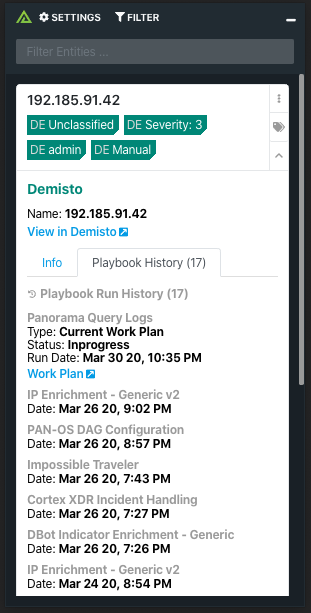
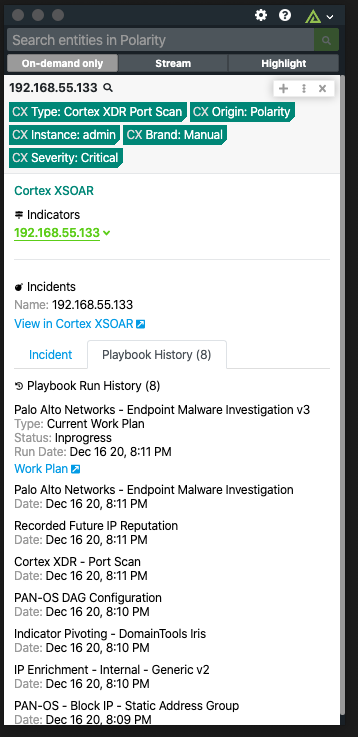
Fixed a few bugs, improved UI in terms of Indicators, and added option to disable Incident creation.

diff --git a/helpers/formatDemistoResults.js b/helpers/formatDemistoResults.js
@@ -25,7 +25,9 @@ const formatDemistoResults = (
 
         const indicatorsForThisEntity = getIndicatorsForThisEntity(indicators, entity);
 
-        const isOnDemand = entity.requestContext.requestType === 'OnDemand';
+        const allowIncidentCreation =
+          entity.requestContext.requestType === 'OnDemand' &&
+          options.allowIncidentCreation;
 
         return incidentsForThisEntity.length
           ? _formatFoundIncidentResults(
@@ -35,8 +37,14 @@ const formatDemistoResults = (
               playbooks,
               options
             )
-          : isOnDemand
-          ? _formatNewIncidentResults(entity, playbooks, options)
+          : indicatorsForThisEntity.length || allowIncidentCreation
+          ? _formatNoIncidentFoundResults(
+              entity,
+              indicatorsForThisEntity,
+              playbooks,
+              allowIncidentCreation,
+              options
+            )
           : { entity, data: null };
       }, entities),
     entityGroupsWithPlaybooks
@@ -75,7 +83,7 @@ const _formatFoundIncidentResults = (
 ) => ({
   entity,
   data: {
-    summary: createSummary(incidentsForThisEntity),
+    summary: createSummary(incidentsForThisEntity, indicatorsForThisEntity),
     details: {
       playbooks,
       incidents: getKeys(
@@ -88,15 +96,28 @@ const _formatFoundIncidentResults = (
   }
 });
 
-const _formatNewIncidentResults = (entity, playbooks, options) => ({
+const _formatNoIncidentFoundResults = (
+  entity,
+  indicatorsForThisEntity,
+  playbooks,
+  allowIncidentCreation,
+  options
+) => ({
   entity,
   isVolatile: true,
   data: {
-    summary: ['No Incident Found'],
+    summary: [
+      'No Incident Found',
+      ...(indicatorsForThisEntity.length
+        ? [`Indicators Found: ${indicatorsForThisEntity.length}`]
+        : [])
+    ],
     details: {
       playbooks,
       onDemand: true,
-      baseUrl: `${options.url}/#`
+      baseUrl: `${options.url}/#`,
+      allowIncidentCreation,
+      indicators: formatIndicatorDates(indicatorsForThisEntity)
     }
   }
 });
@@ -114,7 +135,7 @@ const formatIndicatorDates = fp.map(
   })
 );
 
-const createSummary = (results) => {
+const createSummary = (results, indicators) => {
   const severity = Math.max(results.map(({ severity }) => severity)) || 'Unknown';
 
   const uniqFlatMap = (func) =>
@@ -132,11 +153,15 @@ const createSummary = (results) => {
 
   const types = uniqFlatMap(({ type }) => type && `Type: ${type}`);
 
-  const summary = [...types, ...categories, ...labels].concat(
-    severity && HUMAN_READABLE_SEVERITY_LEVELS[severity]
-      ? `Severity: ${HUMAN_READABLE_SEVERITY_LEVELS[severity]}`
-      : []
-  );
+  const summary = [
+    ...types,
+    ...categories,
+    ...labels,
+    ...(severity && HUMAN_READABLE_SEVERITY_LEVELS[severity]
+      ? [`Severity: ${HUMAN_READABLE_SEVERITY_LEVELS[severity]}`]
+      : []),
+    ...(indicators && indicators.length ? [`Indicators Found: ${indicators.length}`] : [])
+  ];
 
   return summary;
 };

diff --git a/components/block.js b/components/block.js
@@ -4,17 +4,22 @@ polarity.export = PolarityComponent.extend({
   incidents: Ember.computed.alias('details.incidents'),
   indicators: Ember.computed.alias('details.indicators'),
   playbooks: Ember.computed.alias('details.playbooks'),
+  allowIncidentCreation: Ember.computed.alias('details.allowIncidentCreation'),
   baseUrl: Ember.computed.alias('details.baseUrl'),
   entityValue: Ember.computed.alias('block.entity.value'),
-  onDemand: Ember.computed('block.entity.requestContext.requestType', function () {
-    return this.block.entity.requestContext.requestType === 'OnDemand';
-  }),
   submissionDetails: '',
   severity: 0,
   incidentMessage: '',
   incidentErrorMessage: '',
   incidentPlaybookId: null,
   isRunning: false,
+  expandableTitleStates: {},
+  init() {
+    if (!this.get('allowIncidentCreation') && !this.get('incidents')) {
+      this.set('expandableTitleStates', { 0: true });
+    }
+    this._super(...arguments);
+  },
   searchTypes: function (term, resolve, reject) {
     const outerThis = this;
     outerThis.setMessage(null, '');
@@ -52,6 +57,17 @@ polarity.export = PolarityComponent.extend({
       });
   },
   actions: {
+    toggleExpandableTitle: function (index) {
+      const modifiedExpandableTitleStates = Object.assign(
+        {},
+        this.get('expandableTitleStates'),
+        {
+          [index]: !this.get('expandableTitleStates')[index]
+        }
+      );
+
+      this.set('expandableTitleStates', modifiedExpandableTitleStates);
+    },
     changeTab: function (incidentIndex, tabName) {
       this.set(`incidents.${incidentIndex}.__activeTab`, tabName);
     },
@@ -62,8 +78,6 @@ polarity.export = PolarityComponent.extend({
     },
     runPlaybook: function (playbookId, incidentIndex, incidentId) {
       const outerThis = this;
-      if (!playbookId)
-        return this.setErrorMessage(incidentIndex, 'Must select a playbook to run.');
 
       this.setMessage(incidentIndex, '');
       this.setRunning(incidentIndex, true);

diff --git a/helpers/runPlaybook.js b/helpers/runPlaybook.js
@@ -155,7 +155,7 @@ const _createContainerAndRunPlaybook = async (
       newSummary: createSummary([newIncident])
     };
   } catch (error) {
-    Logger.error({ error }, 'Incident Creation or Playbook Run Error');
+    Logger.error(error, 'Incident Creation or Playbook Run Error');
     throw error;
   }
 };
@@ -178,7 +178,7 @@ const _createIncidentAndRunPlaybook = (
     },
     body: {
       name: entityValue,
-      playbookId,
+      ...(playbookId && { playbookId }),
       ...(selectedType && { type: selectedType.id }),
       severity: fp.toNumber(severity),
       labels: [

diff --git a/config/config.js b/config/config.js
@@ -43,6 +43,15 @@ module.exports = {
       type: 'password',
       userCanEdit: true,
       adminOnly: false
+    },
+    {
+      key: 'allowIncidentCreation',
+      name: 'Allow Incident Creation',
+      description: 'If checked, users will be able create incidents when searching On Demand if there are none currently existing for your searched entity.',
+      default: true,
+      type: 'boolean',
+      userCanEdit: true,
+      adminOnly: false
     }
   ]
 };

diff --git a/styles/styles.less b/styles/styles.less
@@ -29,3 +29,18 @@
     width: 110px;
   }
 }
+
+.expandable-title {
+  display: block;
+  color:  #5CCD18 !important;
+  font-weight: 600;
+  margin-bottom: 5px;
+  .text {
+    color:  #5CCD18 !important;
+    border-bottom: 1px solid #5CCD18;
+    .desc {
+      color:  #A5A5A5 !important;
+      font-weight: 400 !important;
+    }
+  }
+}

diff --git a/README.md b/README.md
@@ -32,6 +32,10 @@ The Server URL where the Cortex XSOAR API instance is located.  The Server URL s
 
 The API token to use to authenticate with the Cortex XSOAR server.  See the official documentation for instructions on setting up an API token.
 
+### Allow Incident Creation
+
+If checked, users will be able create incidents when searching On Demand if there are none currently existing for your searched entity.
+
 ## Querying and Creation Details
 
 There are some current limitations to the integration in relation to the query and creation of Incidicents and Indicators due to some issues with Cortex XSOAR's API.  Currently we are finding that Indicator searches are not exhaustive meaning there could be other indicators in Cortex XSOAR that we are not finding. This is not happening often but is possible.
